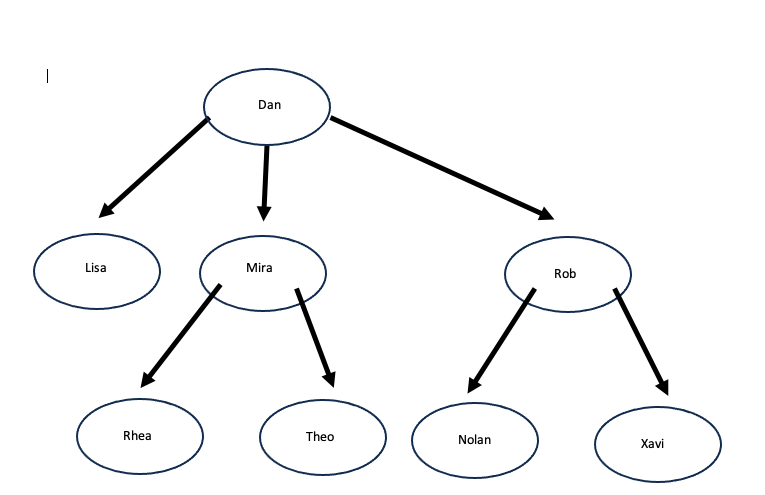
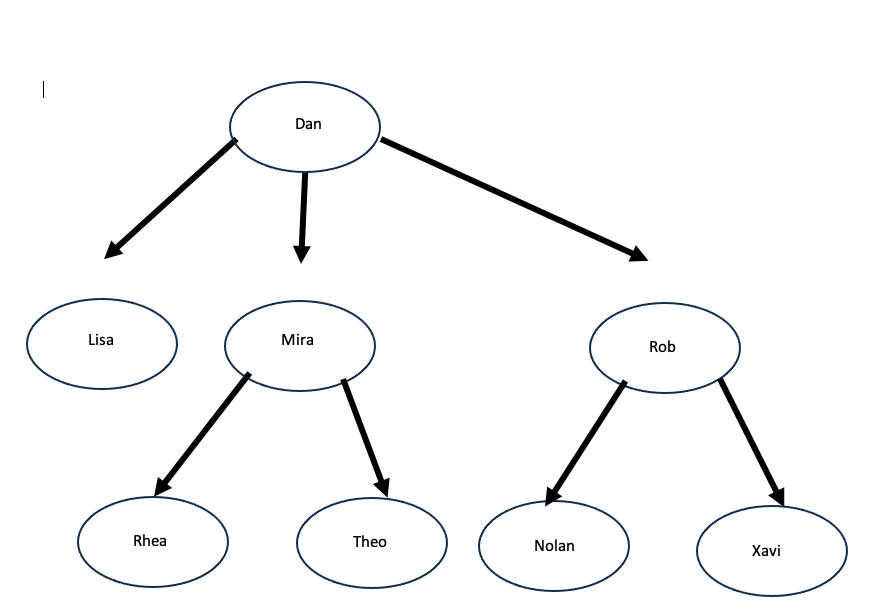
image to new dan_di7

diff --git a/index1.html b/index1.html
@@ -10,7 +10,7 @@
     <h1 id="heading1">Family Tree</h1>
     <div class="diagram-container">
         <div class="hotspot" id="overview"></div>
-        <img id="diagram" src="images/dan_dia8.png" alt="Diagram">
+        <img id="diagram" src="images/dan_dia7.png" alt="Diagram">
         
         <div class="hotspot" id="rnode1"></div>
         <div class="hotspot" id="l1-node1"></div>
